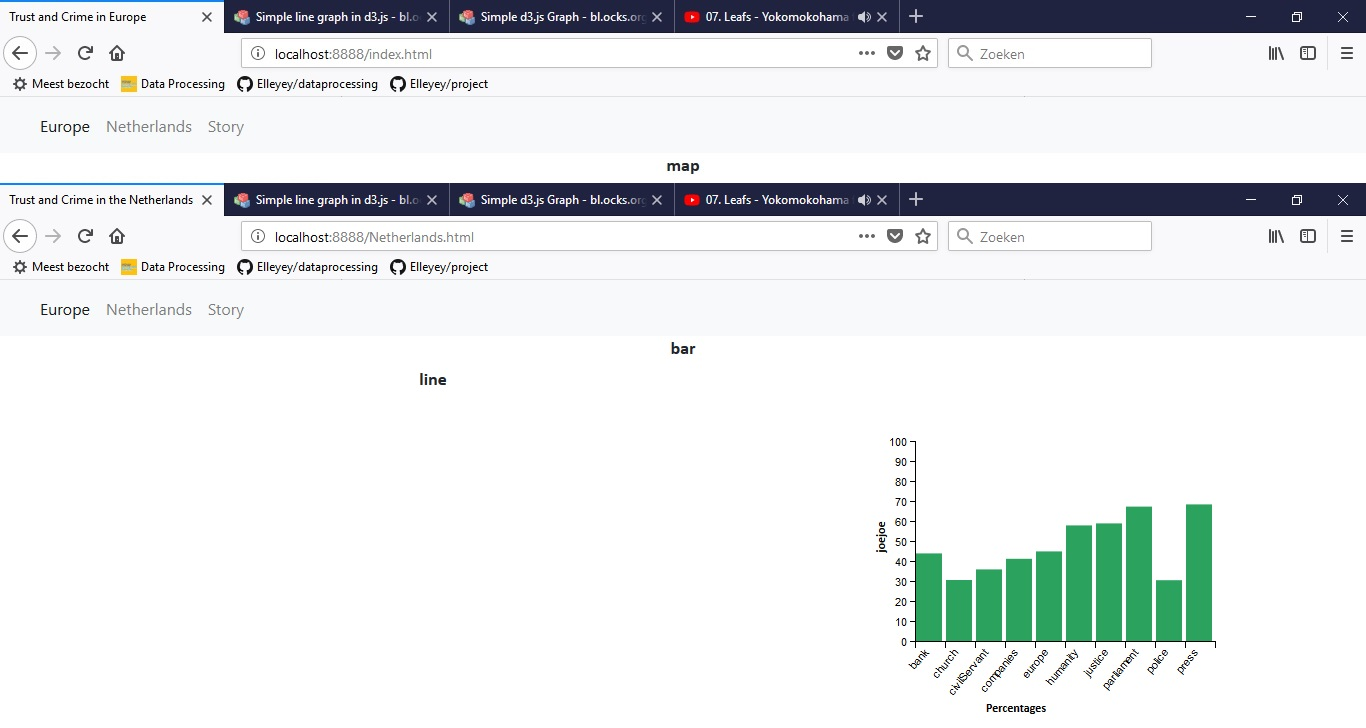
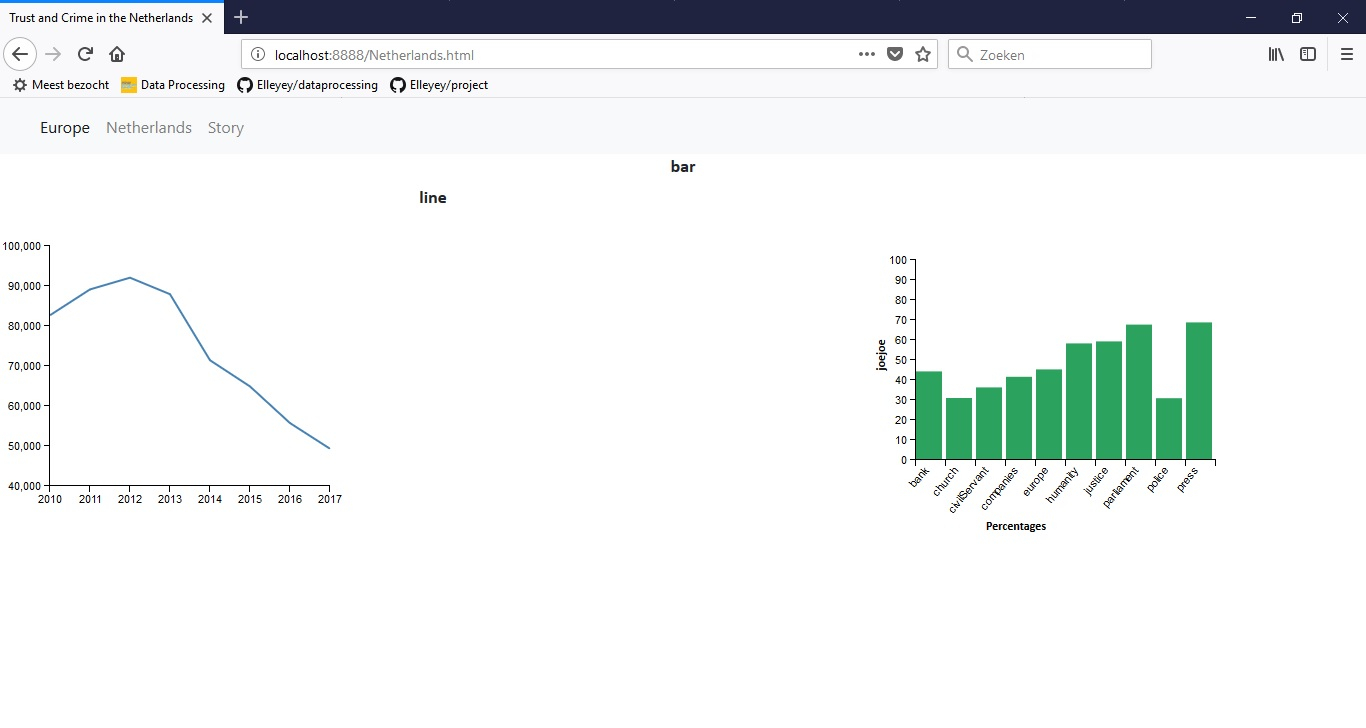
vrijdag middag update

diff --git a/webpagina/Netherlands.js b/webpagina/Netherlands.js
@@ -17,8 +17,8 @@ window.onload = function() {
       // iterate over data, add the right data to a certain country
       for (var i = 0; i < 8; i++)
       {
-        var year = dataInbraak[i].Year;
-        var burglaryRate = dataInbraak[i].Burglary;
+        var year = Number(dataInbraak[i].Year);
+        var burglaryRate = Number(dataInbraak[i].Burglary);
 
       dataArrayInbraak.push(
         {
@@ -186,39 +186,48 @@ window.onload = function() {
 
     function makeLines(data){
       console.log(data);
+      // http://bl.ocks.org/d3noob/b3ff6ae1c120eea654b5
+      // got code inspiration from above.
 
       var margin = {top: 30, right: 20, bottom: 30, left: 50},
-      width = 600 - margin.left - margin.right,
-      height = 270 - margin.top - margin.bottom;
+      width = 350 - margin.left - margin.right,
+      height = 300 - margin.top - margin.bottom;
 
 
-      var x = d3.time.scale()
+      var x = d3.scale.linear()
               .domain([2010, 2017])
               .range([0, width]);
 
+
+
       var y = d3.scale.linear()
-                      .domain([40000, 100000])
+                      .domain([100000, 40000])
                       .range([0, height]);
 
 
+      var years = ["2010", "2011", "2012", "2013", "2014", "2015", "2016", "2017"]
       var xAxis = d3.svg.axis()
                     .scale(x)
                     .orient("bottom")
-                    .ticks("8");
+                    // .ticks("7")
+                    .tickFormat(function (d, i) {
+                      return years[i];
+                    });
 
       var yAxis = d3.svg.axis()
                     .scale(y)
                     .orient("left")
                     .ticks("6");
 
+
       var valueLine = d3.svg.line()
                         .x(function(d) {
                           console.log(d.year);
-                          x(d.year);
+                          return x(d.year);
                         })
                         .y(function(d) {
-                          console.log(+d.burglaryRate);
-                          y(+d.burglaryRate);
+                          console.log(d.burglaryRate);
+                           return y(+d.burglaryRate);
                         });
 
      var svg = d3.select("#container-line")

diff --git a/webpagina/Netherlands.html b/webpagina/Netherlands.html
@@ -13,11 +13,11 @@
     <script src="https://cdnjs.cloudflare.com/ajax/libs/popper.js/1.14.3/umd/popper.min.js" integrity="sha384-ZMP7rVo3mIykV+2+9J3UJ46jBk0WLaUAdn689aCwoqbBJiSnjAK/l8WvCWPIPm49" crossorigin="anonymous"></script>
     <script src="https://stackpath.bootstrapcdn.com/bootstrap/4.1.1/js/bootstrap.min.js" integrity="sha384-smHYKdLADwkXOn1EmN1qk/HfnUcbVRZyYmZ4qpPea6sjB/pTJ0euyQp0Mk8ck+5T" crossorigin="anonymous"></script>
     <!-- version 3.3 of d3 -->
-    <script src="https://d3js.org/d3.v3.min.js"></script>
+    <script src="https://d3js.org/d3.v3.js"></script>
     <!-- to use queue anyways -->
     <script src="https://d3js.org/queue.v1.min.js"></script>
     <!-- Optional JavaScript -->
-    <link rel="stylesheet" href="styles.css"  type="text/css"></script>
+    <link rel="stylesheet" href="styles.css"  type="text/css"></link>
     <script src="Netherlands.js"></script>
     <title>Trust and Crime in the Netherlands</title>
   </head>
@@ -39,7 +39,7 @@
       <h1>bar</h1>
       <div id="container-bar" style="position: relative; width: 500px; height: 400px;">
       </div>
-      <h1>line<h1>
+      <h1>line</h1>
       <div id="container-line" style="position: relative; width: 350px; height: 300px">
       </div>
     </div>

diff --git a/webpagina/styles.css b/webpagina/styles.css
@@ -70,3 +70,9 @@ h2
 #container-bar {
 	float: right;
 }
+
+path {
+    stroke: steelblue;
+    stroke-width: 2;
+    fill: none;
+}

diff --git a/PROCESS.md b/PROCESS.md
@@ -30,6 +30,7 @@ page of Europe is working, but style not yet. Also I am missing a link between y
 
 ![processOne](doc/process2.jpeg)
 
-page Netherlands needs some attention - just barchart for one year working right now. Script for line chart but is not working.
+page Netherlands needs some attention. Still need to make scatterplot and second linegraph.
+IDEA: maybe make new CSS for Netherlands
 
 ![processTwo](doc/process1.jpg)
